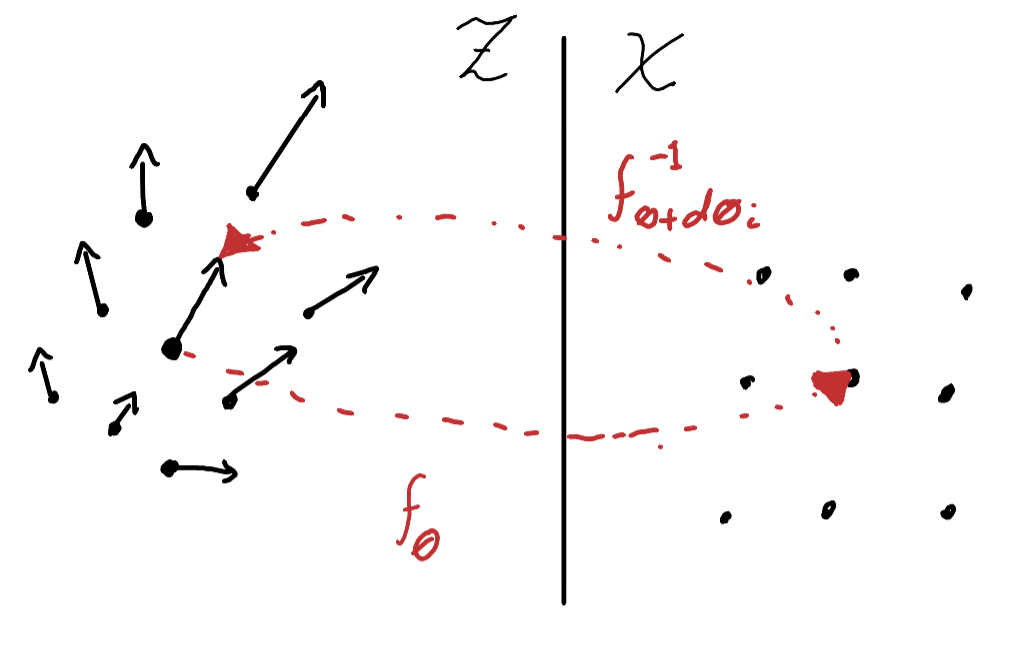
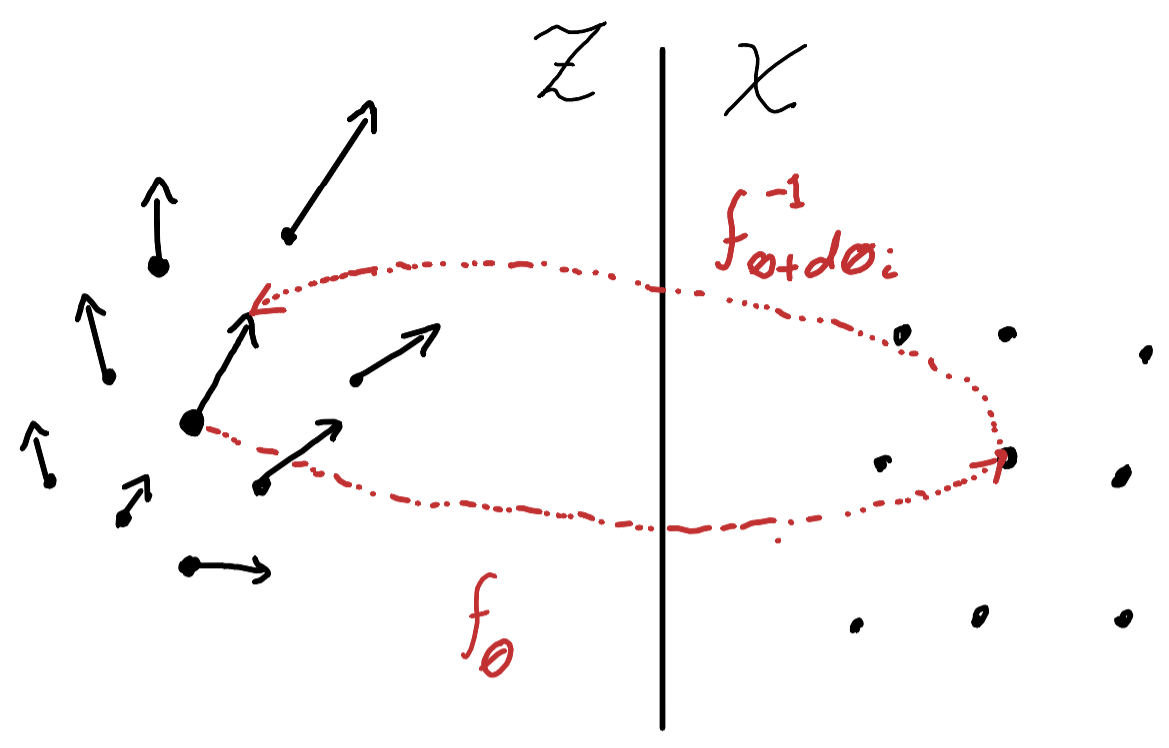
nicer normalizing flow image

diff --git a/_posts/2024-10-20-gradients-FIMetric-blogpost.md b/_posts/2024-10-20-gradients-FIMetric-blogpost.md
@@ -85,20 +85,18 @@ Theory: natural Gradients
 - High-level introduction to natural gradients, cite amari mostly, don't try to re-define everything
 - Using FIM on normal distribution _including variance term_ recovers something typicality-esque 
 
-Theory: representation dependence
-- write up Normalising flow example
-
-Future research directions
-- Emphasise interpretability angle
-
 #### Beyond the likelihood: gradients for novelty detection
 
-Bearing the above in mind, we can come to a definition of novelty that extends beyond how probable a sample is: we can say that a sample contains novelty if it contains unlearned, but learnable, structure.
+Bearing the above in mind, we can come to a definition of novelty that extends beyond how probable a sample is: we can say that a sample contains novelty if it contains unlearned, but learnable, structure. 
+
+_True noise should not be novel, as long as an agent roughly understand the noising process._
+
+But can't something appear to be noise yet actually be produced by some very complex process? _yes_ but then this is still noisy and thus non-novel _relative to you_, until you grok the complex process.
 
 Consider the following scenario: while driving in your car, you observe a cloud shape that you haven't seen before. 
 This exact configuration of the cloud is highly unlikely under your world model, yet you don't stop to learn the exact structure of the cloud, as doing so doesn't teach you about future clouds.
 All the unpredictable structure of the cloud is at least for a human observer, unlearnable.
-In contrast, consider observing a skateboarder on the road for the first time. There's learnable information about how the skateboarder
+In contrast, consider observing a skateboarder on the road for the first time. There's learnable information what a skateboarder is and how they behave baked into this observation. 
 
 - want an example that manifestly equates likelihoods yet one is obviously novel and the other is obviously not
 
@@ -299,7 +297,7 @@ $$
 
 For most generative models, this means that the entire initialisation, training, and sampling processes can be defined without ever implicitly assigning volumes to the input space.
 
-**Example: how to compute gradients for your normalising flow without using volumes** Normalising flows, and their continuous cousins [^neural_odes], learn an invertible mapping from a latent space to the $f_{\theta}: \mathcal{Z} \to \mathcal{X}$ such that the distribution of $f_{\theta}^{-1}({\bf x})$ for ${\bf x} \sim p$ is some easy-to-compute distribution (for example, a standard normal distribution). The model likelihood $p^{\theta}({\bf x})$ is then given by the change-of-variables formula:
+**Example: how to compute gradients for your normalising flow without using volumes.** Normalising flows, and their continuous cousins [^neural_odes], learn an invertible mapping from a latent space to the $f_{\theta}: \mathcal{Z} \to \mathcal{X}$ such that the distribution of $f_{\theta}^{-1}({\bf x})$ for ${\bf x} \sim p$ is some easy-to-compute distribution (for example, a standard normal distribution). The model likelihood $p^{\theta}({\bf x})$ is then given by the change-of-variables formula:
 
 $$
 \log p^{\theta}({\bf x}) 
@@ -319,7 +317,7 @@ $$
 \frac{\partial}{\partial \theta_i}  \log  \left\vert \det \frac{\partial f^{-1}_\theta}{\partial {\bf x}} \right\vert = \nabla_{\bf z} \cdot \left( \frac{\partial f^{-1}}{\partial \theta_i} \circ f \right)
 $$
 
-This formula actually has quite a nice intuition behind it: the idea is that we examine the vector field generated by taking points in $\mathcal{Z}$, applying $f_{\theta}$, and then mapping back to  $\mathcal{Z}$ by applying the inverse with a small deviation of the parameter of interest: $f_{\theta + d \theta_i}^{-1}$. The idea here is that if this vector field has positive divergence, then increasing $\theta_i$ will increase the amount of $\mathcal{Z}$-space that is in the neighbourhood of the corresponding point ${\bf x}$, thus increasing the likelihood ${\bf x}$.
+This formula actually has quite a nice intuition behind it: the idea is that we examine the vector field generated by taking points in $\mathcal{Z}$, applying $f_{\theta}$, and then mapping back to  $\mathcal{Z}$ by applying the inverse with a small deviation of the parameter of interest: $f_{\theta + d \theta_i}^{-1}$. The idea here is that if this vector field has positive divergence, then increasing $\theta_i$ will increase the amount of $\mathcal{Z}$-space that is allocated to surrounding ${\bf x}$, thus increasing the likelihood ${\bf x}$.
 
 <center><img src="\assets\normalizing-flow-vector-field-explainer.png"></center>
 
